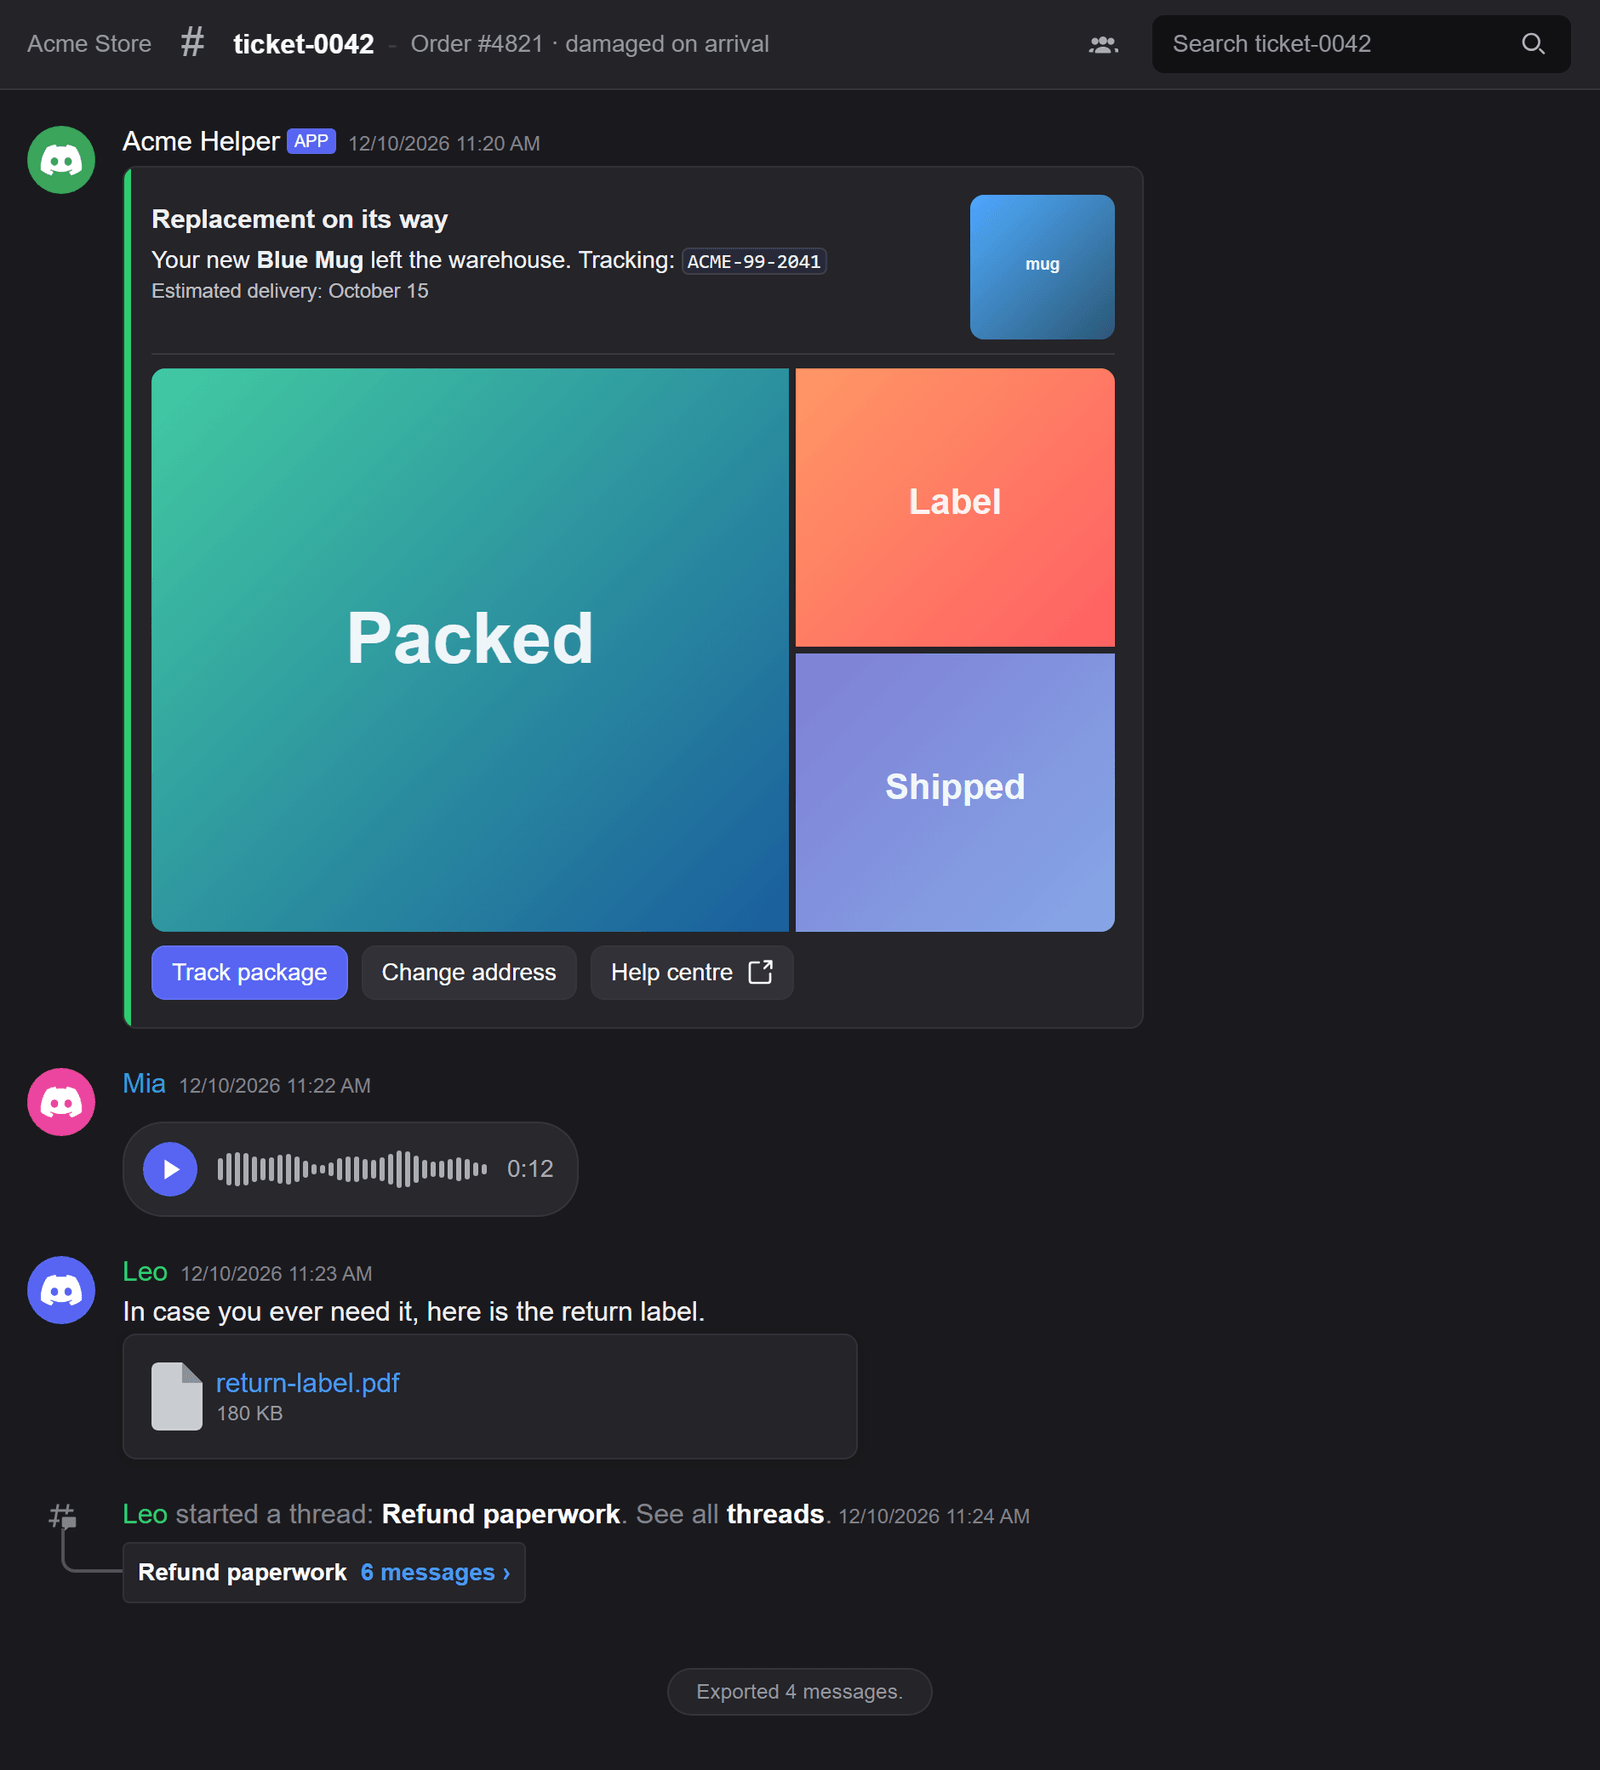
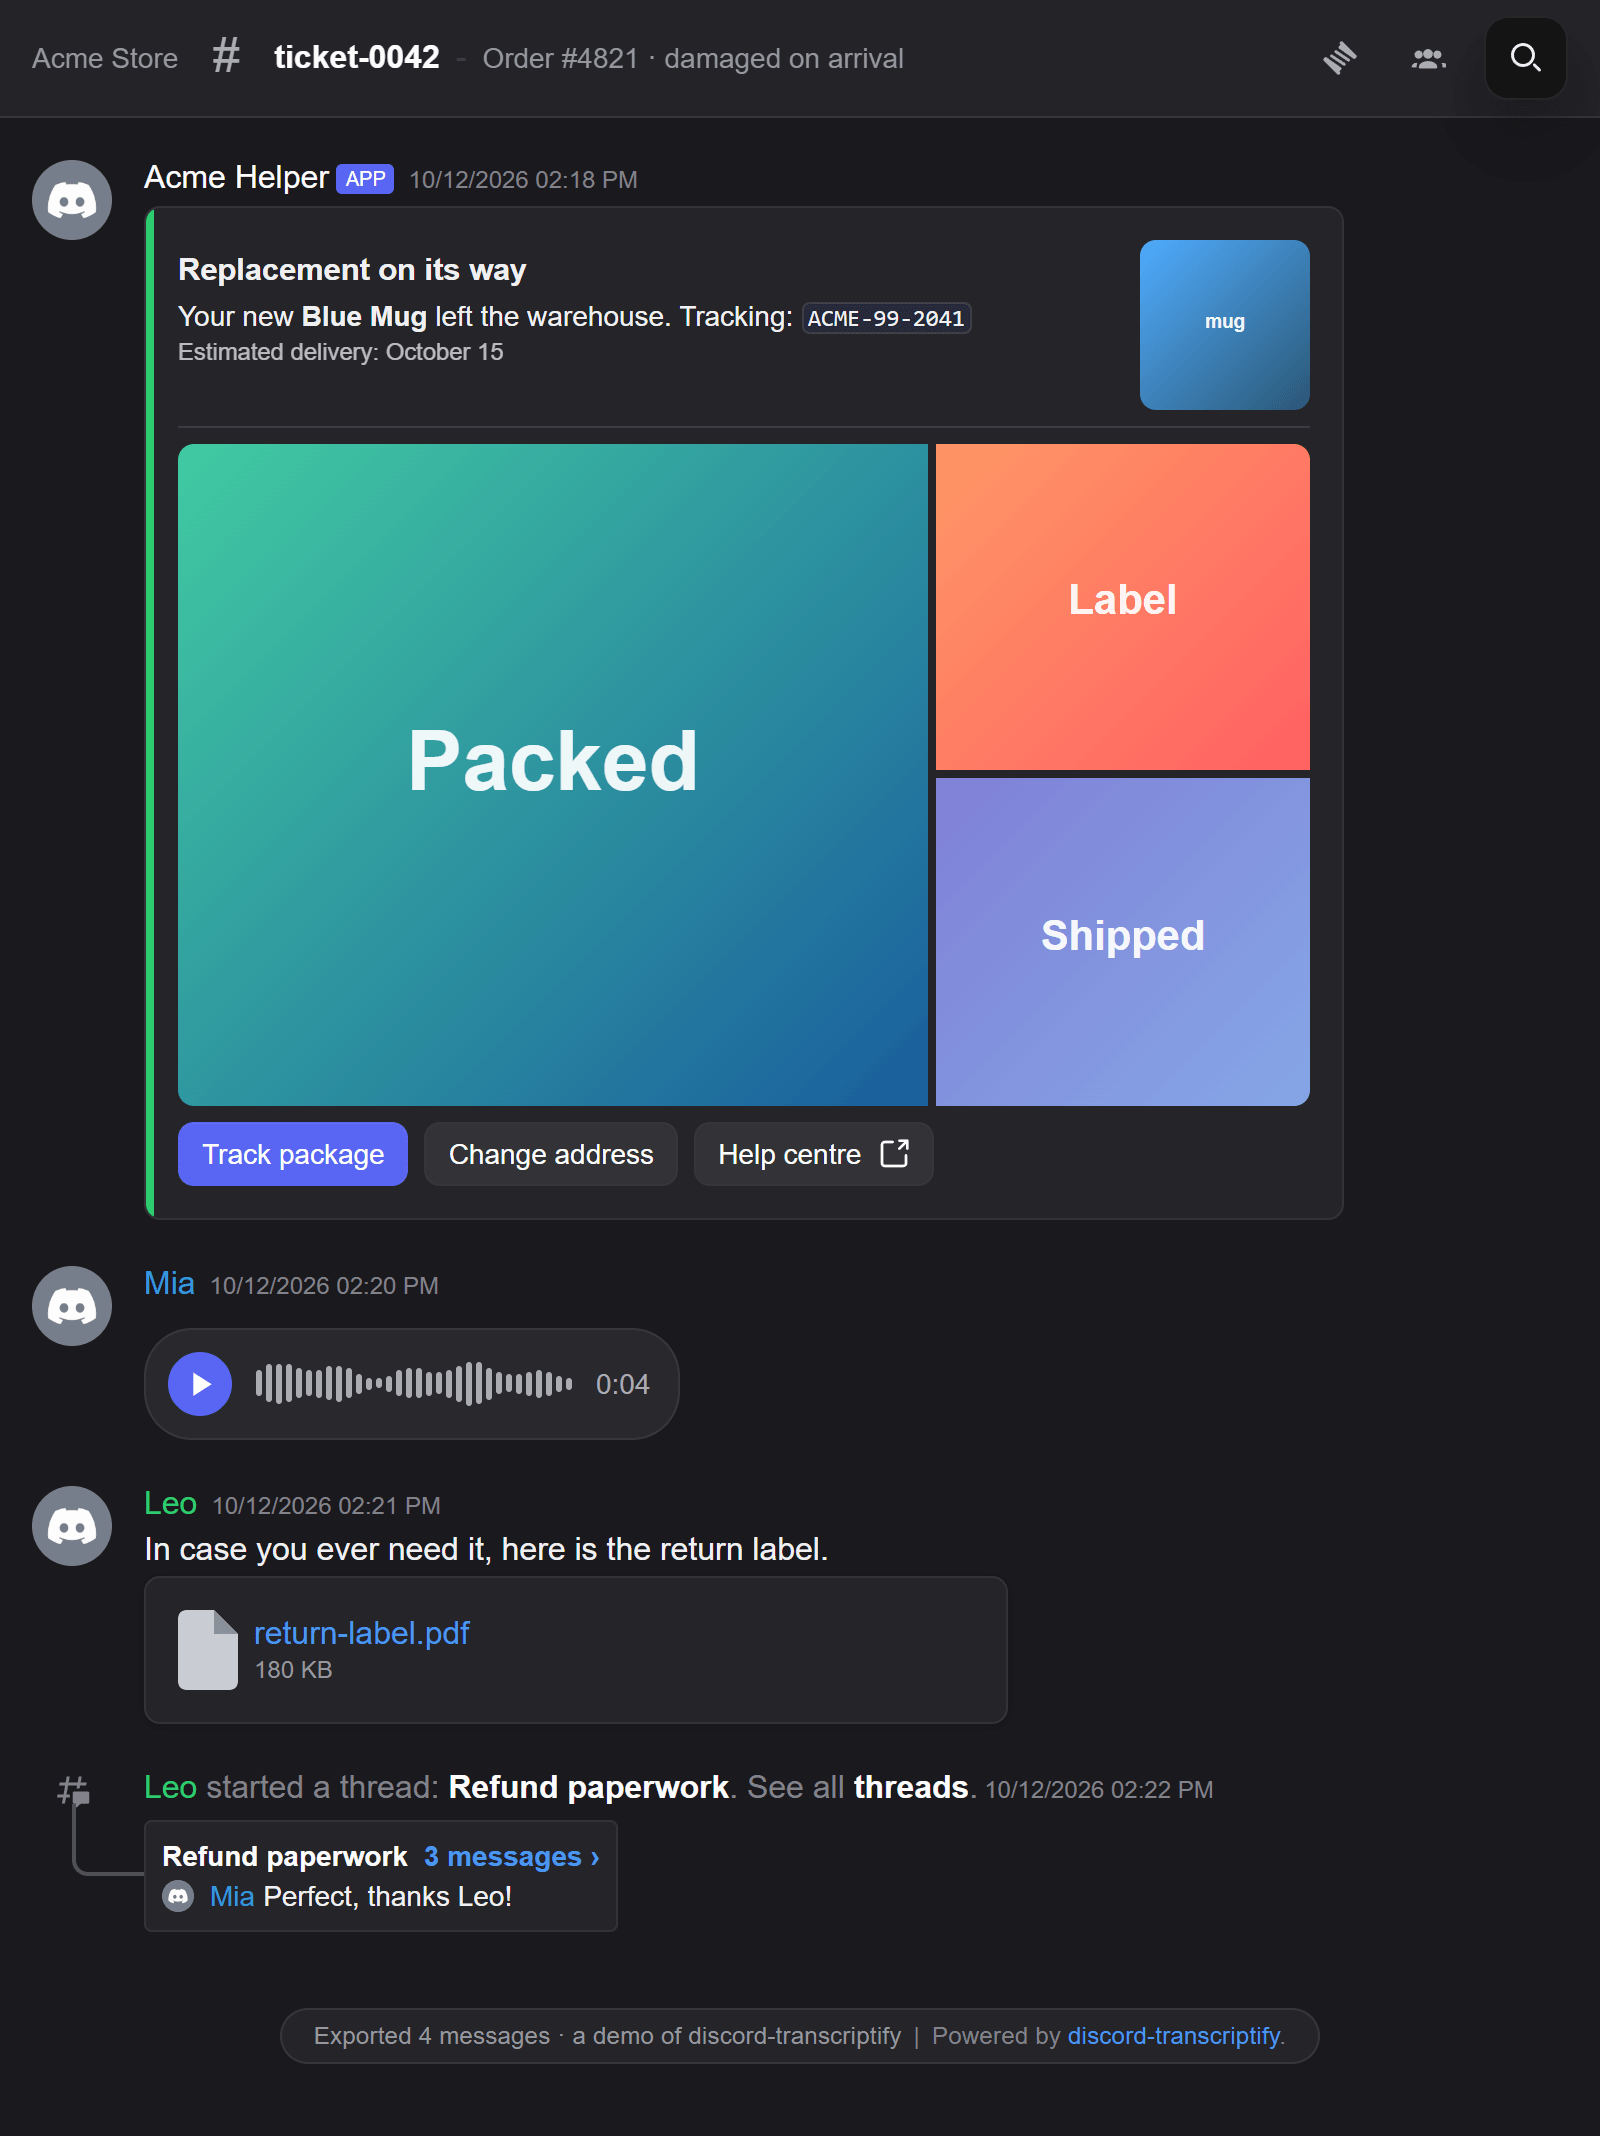
docs: rework the README and add contributing and security guides
Live demo link, feature overview, ticket example, screenshots of the
built-in interface and a FAQ, keeping every technical section. Adds
issue and pull request templates.

diff --git a/README.md b/README.md
@@ -1,14 +1,51 @@
+<div align="center">
+
 # discord-transcriptify
 
-[![npm version](https://img.shields.io/npm/v/discord-transcriptify)](https://www.npmjs.com/package/discord-transcriptify)
-[![npm downloads](https://img.shields.io/npm/dw/discord-transcriptify)](https://www.npmjs.com/package/discord-transcriptify)
+**Save any Discord channel as a single HTML file that looks just like Discord.**
+
+[![npm version](https://img.shields.io/npm/v/discord-transcriptify?color=5865F2&logo=npm&logoColor=white)](https://www.npmjs.com/package/discord-transcriptify)
+[![npm downloads](https://img.shields.io/npm/dw/discord-transcriptify?color=5865F2&logo=npm&logoColor=white)](https://www.npmjs.com/package/discord-transcriptify)
+[![CI](https://img.shields.io/github/actions/workflow/status/cauahzz/discord-transcriptify/CI.yml?branch=main&label=tests&logo=github)](https://github.com/cauahzz/discord-transcriptify/actions/workflows/CI.yml)
+[![node](https://img.shields.io/node/v/discord-transcriptify?color=339933&logo=node.js&logoColor=white)](#requirements)
 [![license](https://img.shields.io/npm/l/discord-transcriptify)](./LICENSE)
 
-Turn a Discord channel into a single HTML file that looks like Discord: same colours, same message
-grouping, same components. Built for [discord.js](https://discord.js.org) v14 and v15.
+**[Live demo](https://cauahzz.github.io/discord-transcriptify/)** ·
+[Quick start](#quick-start) ·
+[What it renders](#what-it-renders) ·
+[Options](#options) ·
+[FAQ](#faq)
+
+</div>
+
+Close a support ticket, archive a channel before deleting it, or keep a record of a moderation case: one
+function call gives you a file that anyone can open in a browser, with the same colours, message grouping,
+embeds, buttons and Components V2 as the Discord client. Built for [discord.js](https://discord.js.org) v14
+and v15.
+
+![A support ticket exported with discord-transcriptify: an embed with buttons and a select menu, a reply with a quote and reactions, a code block, a forwarded message and a poll](./.github/assets/conversation.png)
+
+## Why discord-transcriptify
+
+- **Looks like Discord.** Markdown, mentions in role colours, replies, reactions, embeds, polls, voice
+  messages, forwarded messages, threads, stickers and system messages.
+- **Full Components V2.** Containers, sections, media galleries, separators, files, checkboxes and radio
+  groups, next to the classic buttons and select menus.
+- **One file, nothing to host.** Search, member list, pinned messages, image preview and a thread
+  panel are built in. Images and voice messages can be embedded so the file keeps working after
+  Discord's links expire.
+- **Safe with untrusted content.** Everything is escaped, and the image downloader blocks private
+  addresses, redirects and oversized files. See [Security](#security).
+- **Easy on small bots.** Memory limits are on by default, and `sharp` is optional.
+- **Typed and tested.** Written in TypeScript, tested on Node 18, 20, 22 and 24, and published from
+  GitHub Actions with [npm provenance](https://docs.npmjs.com/generating-provenance-statements).
+
+## Quick start
 
 ```shell
 npm install discord-transcriptify
+# or: pnpm add discord-transcriptify
+# or: yarn add discord-transcriptify
 ```
 
 ```js
@@ -18,36 +55,73 @@ const attachment = await createTranscript(channel);
 await channel.send({ files: [attachment] });
 ```
 
-![A support ticket exported with discord-transcriptify: an embed with buttons and a select menu, a reply with a quote and reactions, a code block and a poll](./.github/assets/conversation.png)
+With TypeScript or ES modules:
+
+```ts
+import { createTranscript } from 'discord-transcriptify';
+```
+
+### Example: transcript when a ticket closes
+
+```js
+const { createTranscript } = require('discord-transcriptify');
+
+client.on('interactionCreate', async (interaction) => {
+  if (!interaction.isButton() || interaction.customId !== 'close-ticket') return;
+  await interaction.deferReply();
+
+  const attachment = await createTranscript(interaction.channel, {
+    saveImages: true, // keep the images even after the channel is gone
+    filename: `${interaction.channel.name}.html`,
+  });
+
+  const logs = await client.channels.fetch(LOG_CHANNEL_ID);
+  await logs.send({ content: `Ticket closed by ${interaction.user}`, files: [attachment] });
+  await interaction.channel.delete();
+});
+```
+
+Want to see the result first? Open the **[live demo](https://cauahzz.github.io/discord-transcriptify/)**, a
+transcript of a made-up support ticket. It is generated by [`demo/generate.ts`](./demo/generate.ts) on every
+push.
 
 ## What it renders
 
-- **Messages** — Discord markdown (bold, quotes, code blocks, spoilers, timestamps), mentions in their
+- **Messages**: Discord markdown (bold, quotes, code blocks, spoilers, timestamps), mentions in their
   role colour, replies, edits, reactions, slash command headers, and consecutive messages from the
   same author grouped under one header.
-- **Embeds** — every field, including author, footer, thumbnail and image.
-- **Components V2** — container (accent colour, spoiler), text display, section with a thumbnail or
+- **Embeds**: every field, including author, footer, thumbnail and image.
+- **Components V2**: container (accent colour, spoiler), text display, section with a thumbnail or
   button accessory, media gallery, file, separator, checkbox and radio group.
-- **Buttons and select menus** — all styles, link buttons, emoji and the disabled state. A select
+- **Buttons and select menus**: all styles, link buttons, emoji and the disabled state. A select
   menu opens on a click and lists its options, with their emoji and descriptions.
-- **Attachments** — images, videos and audio inline; several images as one grid; any other file as a
+- **Attachments**: images, videos and audio inline; several images as one grid; any other file as a
   card with its name, size and a download link.
-- **Voice messages** — waveform, duration and a play button.
-- **Polls** — answers, vote bars and the poll result message. The closing time is shown as a date,
+- **Voice messages**: waveform, duration and a play button.
+- **Polls**: answers, vote bars and the poll result message. The closing time is shown as a date,
   never as time left.
-- **Forwarded messages** — content, attachments, embeds and components of the forwarded snapshot.
-- **Threads** — the "started a thread" message with its preview, and optionally every message inside
+- **Forwarded messages**: content, attachments, embeds and components of the forwarded snapshot.
+- **Threads**: the "started a thread" message with its preview, and optionally every message inside
   the thread.
-- **Stickers** — PNG, APNG and GIF as images. Lottie stickers show a placeholder with the sticker
+- **Stickers**: PNG, APNG and GIF as images. Lottie stickers show a placeholder with the sticker
   name, since they need a player script.
-- **System messages** — joins, pins, boosts and thread creation.
+- **System messages**: joins, pins, boosts and thread creation.
 - **Server tags** next to author names.
 
 ![A Components V2 container with a section, a thumbnail, a media gallery and buttons, followed by a voice message, a file card and a thread preview](./.github/assets/components.png)
 
-The file also carries a small interface for whoever reads it: message search, a member list with
-message counts, a list of pinned messages, a list of the saved threads, a full-screen image preview
-and a side panel that opens a thread next to the channel. All of it can be [switched off](#interactive-ui).
+### Built-in interface
+
+The file also carries a small interface for whoever reads it. All of it can be
+[switched off](#interactive-ui).
+
+|                       Message search                        |                             Member list                             |
+| :---------------------------------------------------------: | :-----------------------------------------------------------------: |
+| ![Searching the transcript](./.github/assets/ui-search.png) |   ![Members and message counts](./.github/assets/ui-members.png)    |
+|                     **Pinned messages**                     |                          **Thread panel**                           |
+|    ![Pinned messages list](./.github/assets/ui-pins.png)    | ![A thread open beside the channel](./.github/assets/ui-thread.png) |
+
+Clicking an image opens it full-screen.
 
 ## Requirements
 
@@ -270,15 +344,37 @@ this only if you trust everyone who can post in the channel.
 A `resolveImageSrc` or `resolveVoiceSrc` function of your own gets none of these checks: validating
 the URLs it receives is up to you.
 
+To report a vulnerability, see [SECURITY.md](./SECURITY.md).
+
+## FAQ
+
+**Messages show up empty.** Your bot needs the Message Content intent, both in the
+[Developer Portal](https://discord.com/developers/applications) and in the client:
+`intents: [GatewayIntentBits.Guilds, GatewayIntentBits.GuildMessages, GatewayIntentBits.MessageContent]`.
+
+**Images in old transcripts stopped loading.** Discord's attachment links expire. Pass `saveImages: true`
+to embed the images in the file when it is created.
+
+**Names are not coloured.** The colour comes from the author's member, which has to be fetched. Keep
+`fetchMembers` on; see [Role colours](#role-colours).
+
+**The file is too big to send.** Discord limits uploads by server boost level. Lower `saveImages.maxTotalSizeKb`,
+install `sharp`, or use `returnType: 'buffer'` and store the file somewhere else.
+
+**Does it work without a bot?** The library renders discord.js messages, so it needs a client to fetch
+them. To render messages you already have, use `generateFromMessages`.
+
 ## Development
 
 ```shell
 npm install
 npm run build
 npm test
+npm run demo   # writes the demo transcript to demo/out
 ```
 
-`npm test` needs no bot and no network. [tests/README.md](./tests/README.md) describes the rest.
+`npm test` needs no bot and no network. [tests/README.md](./tests/README.md) describes the rest, and
+[CONTRIBUTING.md](./CONTRIBUTING.md) covers pull requests.
 
 ## Credits
 

diff --git a/CONTRIBUTING.md b/CONTRIBUTING.md
@@ -1,0 +1,36 @@
+# Contributing
+
+Bug reports, ideas and pull requests are welcome.
+
+## Reporting a bug
+
+Open an [issue](https://github.com/cauahzz/discord-transcriptify/issues/new/choose) with the versions
+of discord-transcriptify, discord.js and Node, the options you passed, and what the transcript shows
+compared with the Discord client. A screenshot of both helps a lot. Security problems go through
+[SECURITY.md](./SECURITY.md) instead.
+
+## Setting up
+
+```shell
+git clone https://github.com/cauahzz/discord-transcriptify.git
+cd discord-transcriptify
+npm install
+npm run build
+npm test
+```
+
+`npm test` needs no bot and no network. To look at a real transcript without a bot, run
+`npm run demo` and open `demo/out/index.html`. [tests/README.md](./tests/README.md) lists the tests
+that do need a bot.
+
+## Pull requests
+
+- Keep one change per pull request, and explain what it fixes or adds.
+- Add a check to `tests/render.ts` for anything that changes the output.
+- Before pushing, run `npm run build`, `npm run typecheck`, `npm run lint:check` and `npm test`. CI runs
+  the same on Node 18, 20, 22 and 24.
+- Update the README when an option or a rendered feature changes.
+- Commit messages follow [Conventional Commits](https://www.conventionalcommits.org/), as in the
+  existing history: `fix: ...`, `feat: ...`, `docs: ...`.
+
+By contributing you agree that your work is licensed under Apache-2.0, like the rest of the project.

diff --git a/SECURITY.md b/SECURITY.md
@@ -1,0 +1,27 @@
+# Security policy
+
+## Supported versions
+
+Only the latest release on npm gets security fixes.
+
+## Reporting a vulnerability
+
+Please do not open a public issue. Report it privately through
+[GitHub's vulnerability reporting](https://github.com/cauahzz/discord-transcriptify/security/advisories/new)
+instead, with the version you used, what an attacker can do, and the smallest message or options that
+show it.
+
+You will get an answer within a week. Once a fix is published, the advisory is made public and credits
+you, unless you prefer otherwise.
+
+## What counts
+
+A transcript is built from content anyone in a channel can write, so these are in scope:
+
+- HTML or script from a message, embed, component or name running in the transcript
+- the built-in downloader reaching a private or loopback address, following a redirect, or going past
+  its size limits
+- a message that makes generation crash or use unbounded memory with the default limits
+
+Code you pass in yourself, such as a custom `resolveImageSrc`, is outside the library's checks. The
+[README](./README.md#security) describes what the library does and does not guard.

diff --git a/.github/pull_request_template.md b/.github/pull_request_template.md
@@ -1,0 +1,9 @@
+## What this changes
+
+<!-- What it fixes or adds, and why. Link the issue if there is one. -->
+
+## Checklist
+
+- [ ] `npm run build`, `npm run typecheck`, `npm run lint:check` and `npm test` pass
+- [ ] A check in `tests/render.ts` covers the change, if it changes the output
+- [ ] The README is updated, if an option or a rendered feature changed
